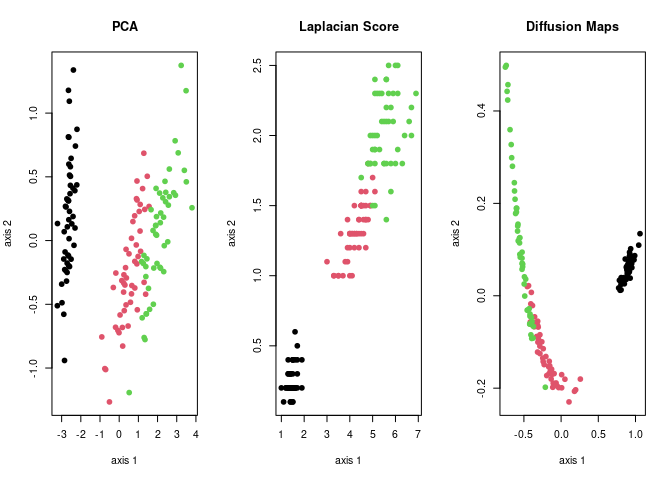
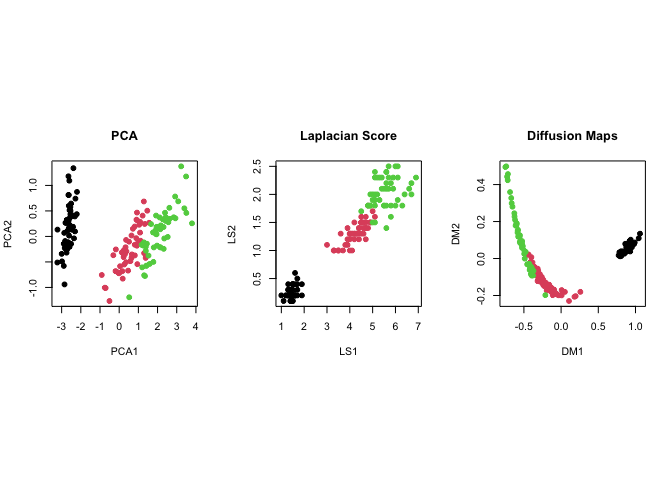
travis removed

diff --git a/README.md b/README.md
@@ -6,9 +6,9 @@
 <!-- badges: start -->
 
 [![CRAN_Status_Badge](https://www.r-pkg.org/badges/version/Rdimtools?color=green)](https://cran.r-project.org/package=Rdimtools)
-[![Travis-CI Build
-Status](https://travis-ci.org/kisungyou/Rdimtools.svg?branch=master)](https://travis-ci.org/kisungyou/Rdimtools)
 [![](https://cranlogs.r-pkg.org/badges/Rdimtools)](https://cran.r-project.org/package=Rdimtools)
+[![CRAN
+Downloads](https://cranlogs.r-pkg.org/badges/grand-total/Rdimtools?color=green)](https://cran.r-project.org/package=Rdimtools)
 <!-- badges: end -->
 
 **Rdimtools** is an R package for dimension reduction (DR) - including
@@ -65,13 +65,13 @@ mylap = do.lscore(X, ndim=2)
 mydfm = do.dm(X, ndim=2, bandwidth=10)
 
 # visualize
-par(mfrow=c(1,3))
-plot(mypca$Y, pch=19, col=lab, xlab="axis 1", ylab="axis 2", main="PCA")
-plot(mylap$Y, pch=19, col=lab, xlab="axis 1", ylab="axis 2", main="Laplacian Score")
-plot(mydfm$Y, pch=19, col=lab, xlab="axis 1", ylab="axis 2", main="Diffusion Maps")
+par(mfrow=c(1,3), pty="s")
+plot(mypca$Y, pch=19, col=lab, xlab="PCA1", ylab="PCA2", main="PCA")
+plot(mylap$Y, pch=19, col=lab, xlab="LS1", ylab="LS2", main="Laplacian Score")
+plot(mydfm$Y, pch=19, col=lab, xlab="DM1", ylab="DM2", main="Diffusion Maps")
 ```
 
-<img src="man/figures/README-unnamed-chunk-2-1.png" width="100%" style="display: block; margin: auto;" />
+<img src="man/figures/README-unnamed-chunk-2-1.png" width="90%" style="display: block; margin: auto;" />
 
 ## Minimal Example : Dimension Estimation
 
@@ -105,7 +105,7 @@ text(x=xtick,  par("usr")[3],
      labels = c("Ustat","correlation","made","mle1","twonn"), pos=1, xpd = TRUE)
 ```
 
-<img src="man/figures/README-unnamed-chunk-3-1.png" width="100%" style="display: block; margin: auto;" />
+<img src="man/figures/README-unnamed-chunk-3-1.png" width="80%" style="display: block; margin: auto;" />
 
 We can observe that all 5 methods we tested estimated the intrinsic
 dimension around $d=2$. It should be noted that the estimated dimension
